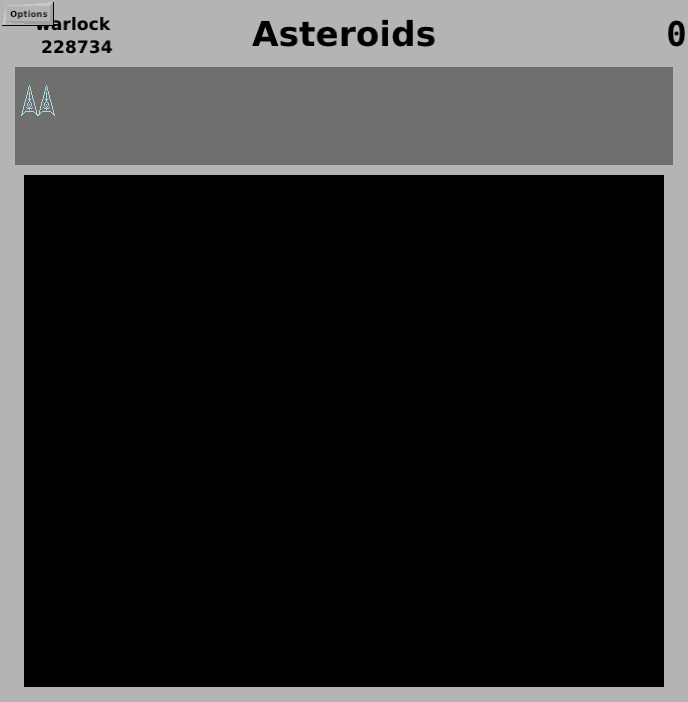
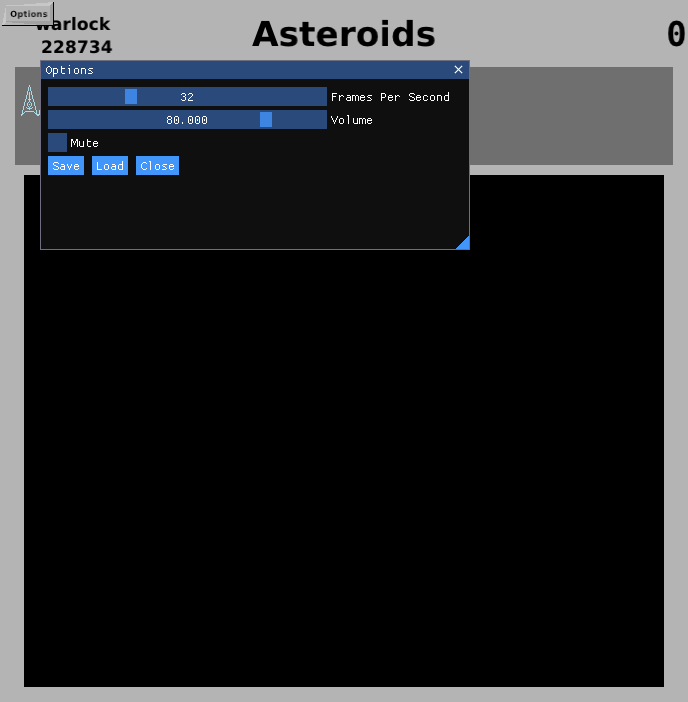
fix(VK,GL): menu overlay missing/black — PresentFrame() presented (closed the render pass) before renderOverlay() drew, so the overlay was silently dropped by the !passOpen_ guard; add presentLeg param (default on) so the pause branch defers the present and the overlay draws into the open frame befo

Changed region(s): [[0.061, 0.0598, 0.702, 0.2692], [0.6715, 0.3291, 0.702, 0.359]]

diff --git a/gamePlay/playingField.H b/gamePlay/playingField.H
@@ -443,7 +443,7 @@ class PlayingField
     TextureId canvasId() const
      {return static_cast<X11Backend&>(engine).canvas();
      }
-    void PresentFrame();
+    void PresentFrame(Boolean presentLeg=on);
     void RenderFrameDraws();
 #ifndef X11_BACKEND
     // Task-36: per-frame repaint of the persistent window chrome (title,
@@ -628,7 +628,7 @@ inline void PlayingField::RenderFrameDraws()
    numFrameDraws=0;
   }
 
-inline void PlayingField::PresentFrame()
+inline void PlayingField::PresentFrame(Boolean presentLeg)
  {// ---- D8 canonical frame structure (task 24) ----
   // (2) frame start — owns NO scissor anywhere (m14);
   engine.beginFrame();
@@ -676,7 +676,11 @@ inline void PlayingField::PresentFrame()
   DrawGame();
    // (8) present — requests the field leg and replays both request-gated
    // legs (yard first, then field), no internal sync (Q13-proven).
-   stage->DrawPlayingField();
+   // presentLeg=off (D9 pause branch): leave the frame open so the caller
+   // renders the menu overlay on top; its trailing endFrame is the single
+   // swap the branch intends.
+   if (presentLeg)
+     stage->DrawPlayingField();
   }
 
 #ifndef X11_BACKEND
@@ -1130,7 +1134,7 @@ inline PlayingField::Boolean PlayingField::RunGame(OptionsMenu& menu)
         // counter freezes — the QA pause gate reads that freeze). The last
         // simulated frame's draw records replay verbatim, then the overlay
         // renders on top in WINDOW space, then one swap.
-        PresentFrame();
+        PresentFrame(off);
         menu.tick();
         if (menu.isOpen())
           menu.renderOverlay(engine);
